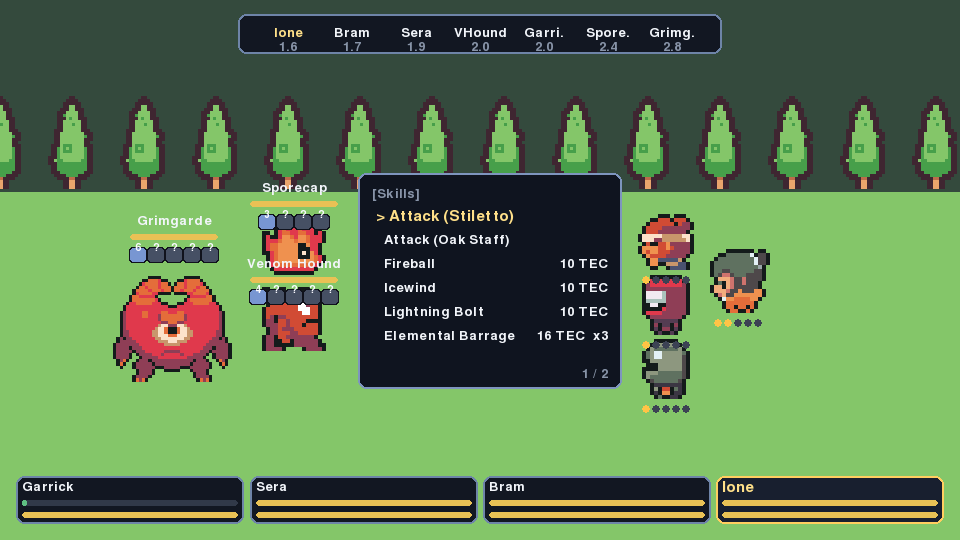
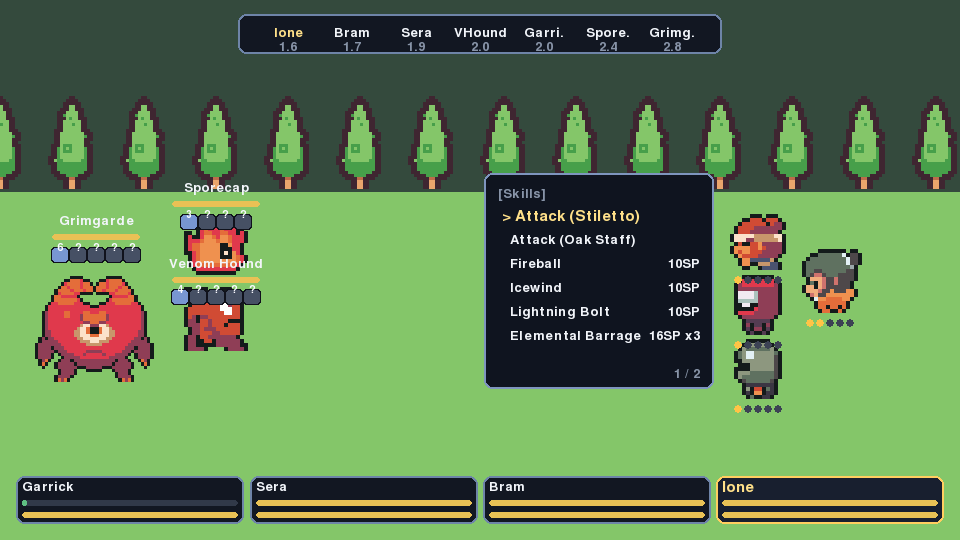
docs(audits): D20-7 more enemy kinds in the Octopath demo - real machine item 44 encounters, replay

Changed region(s): [[0.0312, 0.2963, 0.9062, 0.7704]]

diff --git a/docs/audits/REAL_MACHINE_VALIDATION.md b/docs/audits/REAL_MACHINE_VALIDATION.md
@@ -58,7 +58,7 @@ D14 #4. Run on a real macOS machine with real windows and devices: no dummy SDL 
 | 41 | Menu icons (AST-07) | **PASS** | Real cocoa window, real key events (Esc, Tab): the shop, the Items tab and the Equipment tab draw the item / equipment icons (36 CC0 icons in one atlas, each an `icon` asset with a region). Equipment carried in the bag shows its name and icon. [shop](evidence/real_machine/icons_shop.png), [items](evidence/real_machine/icons_items.png), [equipment](evidence/real_machine/icons_equipment.png) |
 | 42 | Particle effects in the field and in battle (VFX-01) | **PASS** | Two entity emitters (fire on the boss, sparkle following the player) plus a `PLAY_VFX` heal one-shot for 3 s: about 63 particles per frame, 58.8–59.2 fps on pygame and on the ModernGL presenter (Low Power Mode on). Battle: every action timeline's VFX beat cues a particle burst; 80 particles drawn on the target. This run found and fixed a defect: the battle cue is replaced every frame as it ages, so the burst restarted every frame and stayed a dot; cues are now keyed by sequence, cue and member, with a regression test. [field](evidence/real_machine/particles_field_moderngl.png), [battle](evidence/real_machine/particles_battle.png). Whether it looks good is M10. |
 | 43 | Particle Effects editor (VFX-01) | **PASS** | Cocoa editor: new effect from a preset, values changed in the form, the live preview running on its own timer (59 live particles), Apply / Undo, the emitter's Inspector choice, usage list; the project file is untouched. [editor](evidence/real_machine/editor_particles.png) |
-| 44 | Octopath-style demo (BTL-02 / BTL-03 / GP-02) | **PASS** | `reference_projects/octopath_demo` in a real cocoa window, real key events through the new battle command menu: Boost x2 by Right and a chosen target (the attack landed twice), a divine skill spending 3 boost points with a 120-particle burst, concocting healing herb + fire dust into a Fire Bomb on every enemy, then the battle won by Enter presses (enemies worn down in memory to keep it short). The demo's 7 session tests also run in the real-window replay (`replay_BTL-03`). [menu](evidence/real_machine/octo_menu.png), [target](evidence/real_machine/octo_target.png), [divine](evidence/real_machine/octo_divine.png), [concoct](evidence/real_machine/octo_concoct.png). Whether it plays well is for a person. |
+| 44 | Octopath-style demo (BTL-02 / BTL-03 / GP-02) | **PASS** | `reference_projects/octopath_demo` in a real cocoa window, real key events through the new battle command menu: Boost x2 by Right and a chosen target (the attack landed twice), a divine skill spending 3 boost points with a 120-particle burst, concocting healing herb + fire dust into a Fire Bomb on every enemy, then the battle won by Enter presses (enemies worn down in memory to keep it short). D20-7: the four new encounters (slime pit, old crypt, gazer nest, samurai duel) each open in the window with their own battle art, shields and weaknesses ([samurai](evidence/real_machine/octo_samurai_duel.png), [gazer](evidence/real_machine/octo_gazer_nest.png)). The demo's 7 session tests also run in the real-window replay (`replay_BTL-03`). [menu](evidence/real_machine/octo_menu.png), [target](evidence/real_machine/octo_target.png), [divine](evidence/real_machine/octo_divine.png), [concoct](evidence/real_machine/octo_concoct.png). Whether it plays well is for a person. |
 
 **Full re-run 2026-10-11 (D18):** 29 PASS, 3 NOT EXECUTED (M1, M3, M4), 1 BLOCKED (controller, M2). An earlier commit message said "34 PASS"; that was a miscount — the results file is authoritative.
 

diff --git a/docs/audits/FINAL_CLOSURE_AUDIT.md b/docs/audits/FINAL_CLOSURE_AUDIT.md
@@ -11,7 +11,7 @@
 | C 部分實作 | 1 | **1**（TPL-01，Eventual） |
 | D 未實作 | 2 | **2**（EDT-17、EDT-18，Eventual） |
 | E 取消 | 2 | 2 |
-| 自動化測試 | 2180 passed | **1987 passed**（D20-2 退役 35 個模組時移除只測退役程式碼的測試） |
+| 自動化測試 | 2180 passed | **1999 passed**（D20-2 退役 35 個模組時移除只測退役程式碼的測試） |
 | 實機檢查（`results.json`） | 49 PASS／3 NE／1 BLOCKED／0 FAIL | **65 PASS／3 NOT EXECUTED／1 BLOCKED／1 FAIL** |
 
 **結論：** 功能面已完成，所有 Core 需求都已實作，剩下的 C／D 全是 SPEC 原文的 Eventually／Potential 項目。
@@ -33,7 +33,7 @@
   - 表單標籤改在欄位上方，並依寬度排出最多欄數。
   - Asset 清單新增 Auto-fix Image 和 Pack into Atlas。
 - **B 項實機證據：** 13 項 B→A（實機項目 36–40）。過程中修正 2 個在實機截圖才看得到的缺陷。
-- **八方旅人式戰鬥 demo（D20-6）：** `reference_projects/octopath_demo` 可直接遊玩。新增完整的戰鬥指令選單，畫面上會顯示護盾、弱點和 BP；奧義、多段多屬性攻擊、Donate BP、召喚寵物、調和、狀態效果都由資料設定。實機項目 44。
+- **八方旅人式戰鬥 demo（D20-6）：** `reference_projects/octopath_demo` 可直接遊玩。新增完整的戰鬥指令選單，畫面上會顯示護盾、弱點和 BP；奧義、多段多屬性攻擊、Donate BP、召喚寵物、調和、狀態效果都由資料設定。D20-7 再加入 6 種打法各不相同的敵人（吸收、反射、免疫、抗性、分裂、高速），分成 4 場戰鬥，由場景中遊蕩的敵人觸發。實機項目 44。
 - **物品／裝備圖示（AST-07，B→A）與粒子特效（VFX-01）：** 實機項目 41–43；戰鬥粒子每幀重啟的缺陷由實機截圖發現並修正。
 
 ### D19 變更（保留）

diff --git a/docs/audits/DECISION_LOG.md b/docs/audits/DECISION_LOG.md
@@ -829,3 +829,25 @@ autofix 原本沒有產品入口，已在 D20-4 接上編輯器。animated_text 
 
 **矩陣：** 計數不變（BTL-02／BTL-03／GP-02 原本就是 A，這次補上 demo 的證據）。
 
+### D20-7 — demo 加入多種敵人（`0966f2f`）
+使用者要求加入更多不同類型的敵人。新增 6 種敵人，並重新設計 Skeleton Knight。每種的打法都不同，全部只用資料設定，素材是 CC0 的 Ninja Adventure：
+
+| 敵人 | 特性 |
+|---|---|
+| Gel Slime | 吸收火（火屬性會幫它補血），會分裂 |
+| Web Spinner | 降低防禦，三連咬 |
+| Bone Wraith | 不死系，免疫中毒，會吸血、冰凍、沉默 |
+| Skeleton Knight | 抗短劍和弓 |
+| Pit Viper | 速度極快，會施毒、降防 |
+| Mirror Gazer | 反射魔法，免疫睡眠，會讓全隊睡著 |
+| Iron Samurai | 8 層護盾，抗劍、斧、弓，會戰吼、旋風斬 |
+
+- 新增 4 場戰鬥，由場景中遊蕩的敵人觸發（碰到就開打）。
+- 新增選填版面欄位 `stage_front`（預設 0.30 不寫入）。demo 把兩邊的站位往外推，讓指令選單不會蓋住敵人。
+
+**自動對戰時發現並修正的引擎缺陷：** 敵人 AI 會選到已倒下的我方角色當目標，導致行動失敗。現在只會選還站著的角色，並已加上回歸測試。
+
+**驗證：**
+- 自動化測試：1999 passed（demo 測試 21 項，包含每場新戰鬥都用鍵盤打贏，且每個敵人招式都有用到）。
+- 實機：項目 44 PASS，加上 4 場新戰鬥的截圖；replay 全部 PASS。
+
